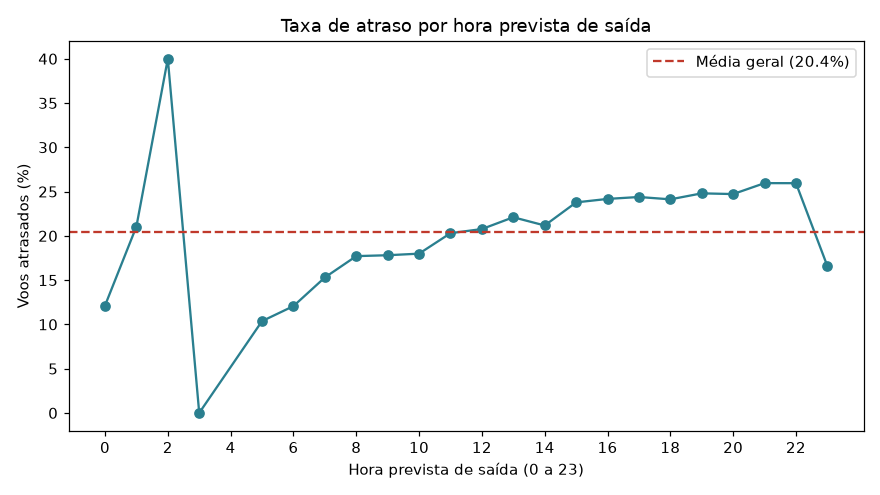
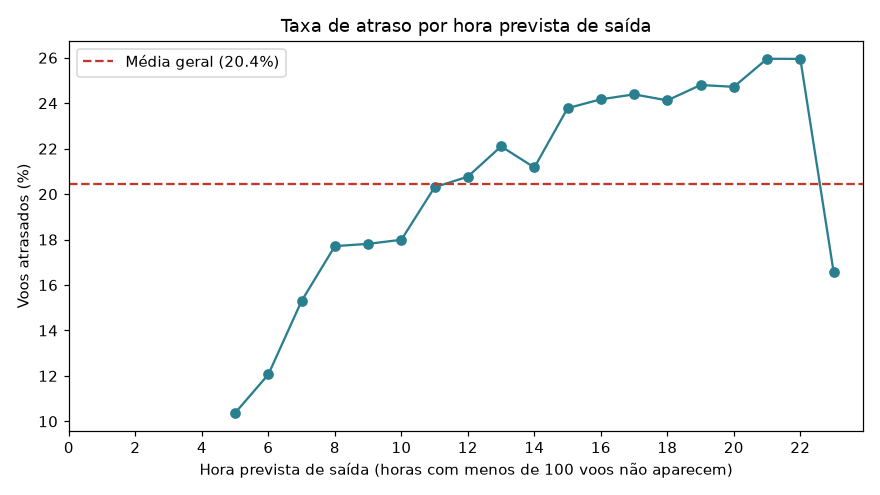
dados.py: filtra horas com poucos voos

diff --git a/dados.py b/dados.py
@@ -32,6 +32,10 @@ COLUNAS_NUMERICAS = ["mes", "dia_semana", "horario_previsto", "distancia", "atra
 # companhias com menos voos que isso ficam de fora da comparação (taxa instável)
 MIN_VOOS_COMPANHIA = 30
 
+# horas com menos voos que isso ficam de fora do gráfico por hora
+# (com poucos voos, 1 atraso a mais ou a menos muda muito a taxa e vira ruído)
+MIN_VOOS_HORA = 100
+
 NOMES_DIAS = {
     1: "segunda",
     2: "terça",
@@ -153,16 +157,21 @@ def analisar(df):
     pior_dia, melhor_dia = por_dia.idxmax(), por_dia.idxmin()
 
     # achado 3: atraso por faixa do dia
-    por_faixa = df.groupby(_faixa_horario(df), observed=True)["atrasou"].mean()
+    faixas = _faixa_horario(df)
+    por_faixa = df.groupby(faixas, observed=True)["atrasou"].mean()
+    voos_faixa = df.groupby(faixas, observed=True).size()
     pior_faixa, melhor_faixa = por_faixa.idxmax(), por_faixa.idxmin()
 
     achados = [
-        f"Companhias: {pior_cia} tem a maior taxa de atraso ({por_cia_ok.loc[pior_cia, 'mean'] * 100:.1f}%) "
-        f"e {melhor_cia} a menor ({por_cia_ok.loc[melhor_cia, 'mean'] * 100:.1f}%). A média geral é {taxa_geral}%.",
+        f"Companhias: {pior_cia} tem a maior taxa de atraso ({por_cia_ok.loc[pior_cia, 'mean'] * 100:.1f}%, "
+        f"{int(por_cia_ok.loc[pior_cia, 'count'])} voos) e {melhor_cia} a menor "
+        f"({por_cia_ok.loc[melhor_cia, 'mean'] * 100:.1f}%, {int(por_cia_ok.loc[melhor_cia, 'count'])} voos). "
+        f"A média geral é {taxa_geral}%.",
         f"Dia da semana: {NOMES_DIAS[pior_dia]} é o dia com mais atrasos ({por_dia[pior_dia] * 100:.1f}%) "
         f"e {NOMES_DIAS[melhor_dia]} o com menos ({por_dia[melhor_dia] * 100:.1f}%).",
-        f"Horário: a faixa '{pior_faixa}' tem a maior taxa de atraso ({por_faixa[pior_faixa] * 100:.1f}%) "
-        f"e '{melhor_faixa}' a menor ({por_faixa[melhor_faixa] * 100:.1f}%).",
+        f"Horário: a faixa '{pior_faixa}' tem a maior taxa de atraso ({por_faixa[pior_faixa] * 100:.1f}%, "
+        f"{int(voos_faixa[pior_faixa])} voos) e '{melhor_faixa}' a menor "
+        f"({por_faixa[melhor_faixa] * 100:.1f}%, {int(voos_faixa[melhor_faixa])} voos).",
     ]
 
     return {
@@ -210,12 +219,14 @@ def gerar_graficos(df, pasta):
     arquivos.append("grafico_companhias.png")
 
     # 3) RELAÇÃO: taxa de atraso conforme a hora prevista de saída
-    por_hora = (df.groupby(df["horario_previsto"] // 100)["atrasou"].mean() * 100)
+    por_hora = df.groupby(df["horario_previsto"] // 100)["atrasou"].agg(["mean", "count"])
+    por_hora = por_hora[por_hora["count"] >= MIN_VOOS_HORA]   # tira horas com poucos voos
+    taxa_hora = por_hora["mean"] * 100
     fig, ax = plt.subplots(figsize=(8, 4.5))
-    ax.plot(por_hora.index, por_hora.values, marker="o", color="#2a7f8f")
+    ax.plot(taxa_hora.index, taxa_hora.values, marker="o", color="#2a7f8f")
     ax.axhline(taxa_geral, color="#c0392b", linestyle="--", label=f"Média geral ({taxa_geral:.1f}%)")
     ax.set_title("Taxa de atraso por hora prevista de saída")
-    ax.set_xlabel("Hora prevista de saída (0 a 23)")
+    ax.set_xlabel(f"Hora prevista de saída (horas com menos de {MIN_VOOS_HORA} voos não aparecem)")
     ax.set_ylabel("Voos atrasados (%)")
     ax.set_xticks(range(0, 24, 2))
     ax.legend()
